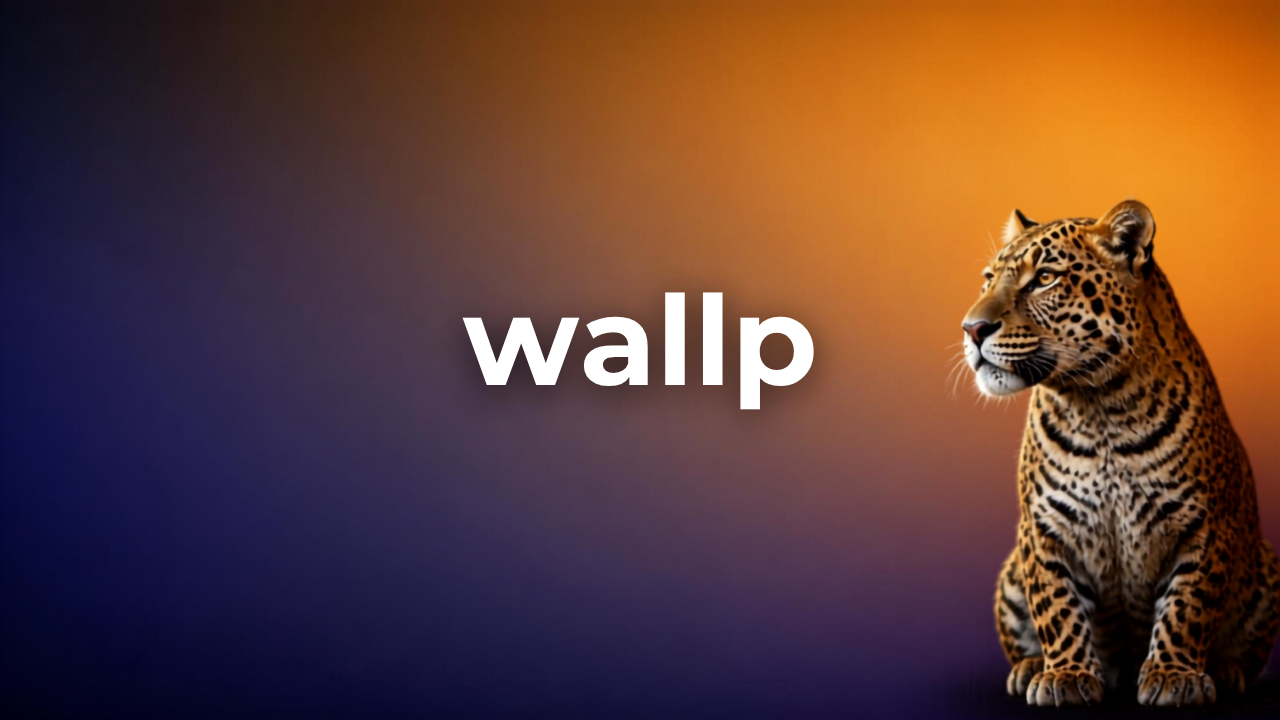
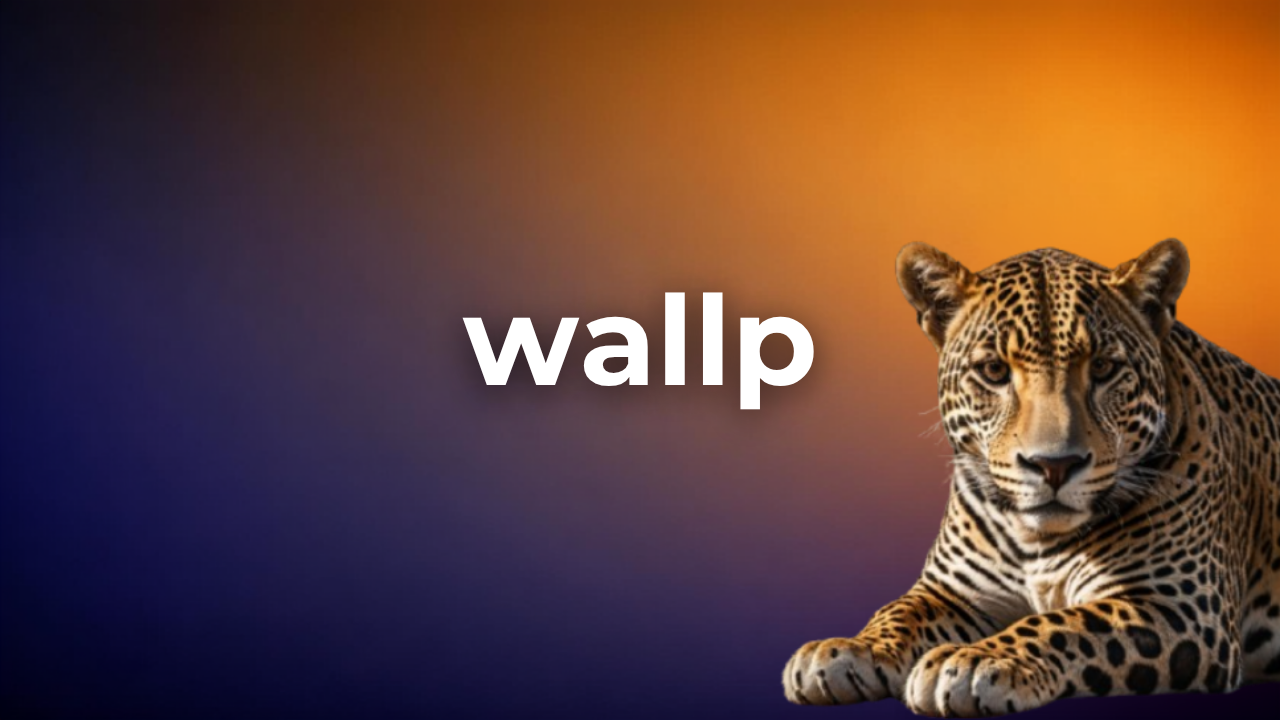
wallp 1.1.0: ps tópicos + default capivara + fix -c
- wallp -ps sem N mostra só atual (1) em tópicos (• arquivo, tamanho, duração, loop, integro, hora, período) em vez de tabela; wallp -ps [N] mostra próximos N em tópicos
- wallp -ps mostra só dir/arquivo (Wallpaper/capivara.png) via _short_path e é combinável com -c/-r/-a (ps não exclusivo)
- fix wallp -c <nome> bloqueado por check is not None em rep/images/videos/integro (sempre true)
- default-wallp.png 1.3M -> 1004K capivara (Wallpaper de capivara.png) 1280x720
- bump 1.0.3 -> 1.1.0

Changed region(s): [[0.5938, 0.275, 1.0, 1.0]]

diff --git a/src/wallp/mode_ps.py b/src/wallp/mode_ps.py
@@ -86,6 +86,20 @@ def _entry_dur(e):
         return e.get("tempo") or entries._list_total(e)
     return e.get("tempo")
 
+def _short_path(arq):
+    """Só pasta pai + arquivo, ex: Wallpapers/celeste.mp4"""
+    try:
+        p = Path(str(arq)).expanduser()
+        if not p.name:
+            return str(arq)
+        # se tem parent com nome (não root)
+        if p.parent and p.parent.name and p.parent.name not in (".", "/"):
+            return f"{p.parent.name}/{p.name}"
+        return p.name
+    except Exception:
+        return str(arq)
+
+
 def _entry_loop_str(e):
     v = e.get("loop")
     if v is True:
@@ -98,11 +112,14 @@ def _entry_loop_str(e):
         return str(v)
 
 def _ps_mode(opts):
-    n = opts.get("ps_count") or 10
+    n = opts.get("ps_count")
+    # sem N explícito → só atual (1); compat fallback antigo 10 vira 1
+    if n is None:
+        n = 1
     try:
         n = int(n)
-    except ValueError:
-        n = 10
+    except (ValueError, TypeError):
+        n = 1
     n = max(1, min(n, 100))
 
     entries_list = entries.load_checked()
@@ -164,24 +181,21 @@ def _ps_mode(opts):
         if (cur - now).days > 370:
             break
 
-    # render
-    print(f"Próximos {len(seen)} wallpapers a partir de {now.strftime('%Y-%m-%d %H:%M:%S')} (wallp -ps {n}):\n")
-    # header
-    hdr = f"{'#':>2}  {'tamanho':>9}  {'nome':<20}  {'duração':>8}  {'loop':>6}  {'integro':>7}  {'hora':<11}  {'arquivo'}"
-    print(hdr)
-    print("-" * len(hdr))
-
+    # render — sem N mostra só o atual
+    if len(seen) == 1:
+        print(f"Wallpaper atual — {now.strftime('%Y-%m-%d %H:%M:%S')} (wallp -ps):\n")
+    else:
+        print(f"Próximos {len(seen)} wallpapers a partir de {now.strftime('%Y-%m-%d %H:%M:%S')} (wallp -ps {n}):\n")
     for i, (start, end, e) in enumerate(seen, 1):
         size = _entry_size_bytes(e)
         size_s = _hum_size(size)
         # marca pesado
-        heavy = ""
-        if size is not None and size > HEAVY_LIMIT:
-            heavy = f" ⚠ >{_hum_size(HEAVY_LIMIT)}"
-        nome = (e.get("nome") or "")[:20]
+        heavy = size is not None and size > HEAVY_LIMIT
+        heavy_mark = f" ⚠ >{_hum_size(HEAVY_LIMIT)}" if heavy else ""
+        nome = (e.get("nome") or "")[:40]
         # para lista, mostra sub_nome
         if e.get("is_list") and e.get("sub_nome"):
-            nome = f"{e['nome']}/{e['sub_nome']}"[:20]
+            nome = f"{e['nome']}/{e['sub_nome']}"[:40]
         dur = _entry_dur(e)
         real = end - start
         # se dur é None (default sem tempo ou vídeo loop infinito), mostra duração real até próxima troca
@@ -199,21 +213,21 @@ def _ps_mode(opts):
             hora_s = f"{start.strftime('%H:%M')}"
         # duração real até próxima troca (para default sem tempo, já é dur)
         real_s = _hum_tempo(real)
-        # arquivo
+        # arquivo — só pasta pai + nome (curto)
         arq = e.get("arquivo") or e.get("local") or ""
-        # encurta path
-        try:
-            arq_disp = str(Path(arq).expanduser())
-            if len(arq_disp) > 50:
-                arq_disp = "…" + arq_disp[-49:]
-        except Exception:
-            arq_disp = str(arq)
+        arq_disp = _short_path(arq)
 
-        # linha principal
-        print(f"{i:>2}  {size_s:>9}{heavy:<10}  {nome:<20}  {dur_s:>8}  {loop_s:>6}  {integro_s:>7}  {hora_s:<11}  {arq_disp}")
-        # segunda linha: horário real + arquivo completo se pesado
-        # mostra intervalo real
-        print(f"    {start.strftime('%m-%d %H:%M')}→{end.strftime('%H:%M')} ({real_s})  {arq}" + (heavy and f"  ⚠ pesado (> {_hum_size(HEAVY_LIMIT)}) — considere comprimir" or ""))
+        # tópicos (em vez de tabela)
+        print(f"{i}. {nome}")
+        print(f"   • arquivo: {arq_disp}")
+        print(f"   • tamanho: {size_s}{heavy_mark}" + (f"  ⚠ pesado (> {_hum_size(HEAVY_LIMIT)}) — considere comprimir" if heavy else ""))
+        print(f"   • duração: {dur_s}")
+        print(f"   • loop: {loop_s}")
+        print(f"   • integro: {integro_s}")
+        print(f"   • hora: {hora_s}")
+        print(f"   • período: {start.strftime('%m-%d %H:%M')} → {end.strftime('%H:%M')} ({real_s})")
+        if i != len(seen):
+            print()
 
     print()
     # rodapé com dicas

diff --git a/src/wallp/cli.py b/src/wallp/cli.py
@@ -44,12 +44,12 @@ def parse():
         elif a in ("-ps", "--ps"):
             modes.add("-ps")
             opts["ps"] = True
-            # -ps [N] opcional, padrão 10
+            # -ps [N] opcional, sem N = só atual (1)
             if i + 1 < len(args) and args[i + 1].isdigit():
                 opts["ps_count"] = int(args[i + 1])
                 i += 1
             else:
-                opts["ps_count"] = 10
+                opts["ps_count"] = 1
         elif a in ("--profile", "--check"):
             modes.add("--profile")
             opts["profile"] = True
@@ -124,16 +124,25 @@ def parse():
         opts["random"] = True
         modes.add("-r")
 
+    # ps pode ser combinado com -c/-r/-a (e -n); demais combos continuam exclusivos
     if len(modes) > 1:
-        print("Erro: use apenas um comando por vez (-c, -n, -r, -a, -x, -d, -al, -ps, --profile ou --init)")
-        sys.exit(1)
+        if "-ps" in modes:
+            other = modes - {"-ps"}
+            if len(other) == 1 and other.issubset({"-c", "-n", "-r", "-a"}):
+                pass
+            else:
+                print("Erro: use apenas um comando por vez (-c, -n, -r, -a, -x, -d, -al, -ps, --profile ou --init) — ps só pode ser combinado com -c, -r ou -a")
+                sys.exit(1)
+        else:
+            print("Erro: use apenas um comando por vez (-c, -n, -r, -a, -x, -d, -al, -ps, --profile ou --init)")
+            sys.exit(1)
 
     if opts["next"] and opts["target"] is not None:
         print("Erro: -n não aceita caminho/nome (use -c para escolher)")
         sys.exit(1)
 
-    if opts["ps"] and opts["target"] is not None:
-        print("Erro: -ps não aceita caminho/nome (use -ps [N] apenas)")
+    if opts["ps"] and opts["target"] is not None and not (opts["change"] or opts["random"] or opts["auto"] or opts["next"]):
+        print("Erro: -ps não aceita caminho/nome (use -ps [N] apenas) — com -c/-r/-a use o alvo desses comandos")
         sys.exit(1)
 
     if opts["profile"] and opts["target"] is not None:
@@ -160,7 +169,7 @@ def help():
     print("wallp — wallpaper animado/imagem no KDE Plasma")
     print()
     print("Uso:")
-    print("  wallp -ps [N]             Próximos N wallpapers da agenda (padrão 10) — mostra tamanho, nome, duração, loop, integro")
+    print("  wallp -ps [N]             Mostra wallpaper atual (sem N) ou próximos N da agenda — tamanho, nome, duração, loop, integro (combinável com -c/-r/-a)")
     print("  wallp --profile           Perfil: varre yml e avisa vídeos >500MB, arquivos faltando, yt sem cache")
     print("  wallp --check             Alias para --profile (compat install.sh --check)")
     print("  wallp -al [regex]         Lista wallpapers do yml (filtra por regex no nome/local)")
@@ -207,7 +216,9 @@ def help():
     print("                              sozinho: mostra as últimas N linhas (padrão 50)")
     print("                              junto de -a/-r/-c/-n/-x: roda o comando e segue")
     print("                              o log (como tail -f, mostrando N linhas)")
-    print("  wallp -ps 5               Próximos 5 da agenda (com tamanho/duração/loop/integro)")
+    print("  wallp -ps                 Wallpaper atual (tamanho/duração/loop/integro, arquivo = dir/arquivo)")
+    print("  wallp -ps 5               Próximos 5 da agenda")
+    print("  wallp -ps -c <nome>       Troca e mostra o atual (ps combinável com -c/-r/-a)")
     print("  wallp --profile           Avisa pesados >500MB e faltando")
     print("  wallp -h                  Mostra esta ajuda")
     print("  wallp --init              Cria um wallp.yml de exemplo")

diff --git a/src/wallp/mode_profile.py b/src/wallp/mode_profile.py
@@ -19,6 +19,17 @@ def _hum_size(n):
         return f"{n/1024/1024:.1f} MB"
     return f"{n/1024/1024/1024:.2f} GB"
 
+def _short_path(p):
+    try:
+        pp = Path(str(p)).expanduser()
+        if not pp.name:
+            return str(p)
+        if pp.parent and pp.parent.name and pp.parent.name not in (".", "/"):
+            return f"{pp.parent.name}/{pp.name}"
+        return pp.name
+    except Exception:
+        return str(p)
+
 def _profile_mode(opts):
     entries_list = entries.load_checked()
     if entries_list is None:
@@ -133,24 +144,24 @@ def _profile_mode(opts):
             except OSError as ex:
                 missing.append((e, target))
 
-    # report
+    # report — mostra só pasta pai + arquivo (curto)
     if heavy:
         print(f"⚠  PESADOS >{_hum_size(HEAVY_LIMIT)} ({len(heavy)}):")
         for e, sz in heavy:
-            print(f"  - {e['nome']:<20} {_hum_size(sz):>9}  {e.get('local')}")
+            print(f"  - {e['nome']:<20} {_hum_size(sz):>9}  {_short_path(e.get('local'))}")
             print(f"    -> {_hum_size(sz)} — considere comprimir: ffmpeg -i input.mp4 -vf scale=-2:1080 -c:v libx264 -crf 23 -c:a aac -b:a 128k output.mp4")
         print()
 
     if missing:
         print(f"❌ FALTANDO ({len(missing)}):")
         for e, p in missing:
-            print(f"  - {e.get('nome','?'):<20}  {p}  (local: {e.get('local')})")
+            print(f"  - {e.get('nome','?'):<20}  {_short_path(p)}  (local: {_short_path(e.get('local'))})")
         print()
 
     if zero_dir:
         print(f"⚠  DIRETÓRIO VAZIO ({len(zero_dir)}):")
         for e, p in zero_dir:
-            print(f"  - {e['nome']:<20}  {p}")
+            print(f"  - {e['nome']:<20}  {_short_path(p)}")
         print()
 
     if not heavy and not missing and not zero_dir:

diff --git a/src/wallp/__init__.py b/src/wallp/__init__.py
@@ -41,13 +41,19 @@ def main():
         _profile_mode(opts)
         return
 
-    if opts.get("ps"):
+    # ps sozinho (sem outro modo principal) → mostra só atual/próximos e sai
+    # ps combinado com -c/-r/-a continua e será exibido após executar o comando
+    has_main = opts["random"] or opts["auto"] or opts["stop"] or opts["change"] or opts["next"] or opts["list"] or opts["daemon"] or opts["init"]
+    if opts.get("ps") and not has_main:
         from .mode_ps import _ps_mode
         _ps_mode(opts)
         return
 
     if opts["list"]:
         _list_mode(opts)
+        if opts.get("ps"):
+            from .mode_ps import _ps_mode
+            _ps_mode(opts)
         return
 
     if opts["random"]:
@@ -83,6 +89,9 @@ def main():
 
     if opts["log"]:
         _show_log(opts, follow=True)
+    if opts.get("ps"):
+        from .mode_ps import _ps_mode
+        _ps_mode(opts)
 
 
 def _list_mode(opts):

diff --git a/src/wallp/mode_change.py b/src/wallp/mode_change.py
@@ -57,7 +57,7 @@ def _change_target(target, opts=None):
             if e.get("is_list"):
                 _start_list(e, opts)
                 return
-            if any(opts.get(k) is not None for k in ("tempo", "max", "qtd", "loop", "rep", "images", "videos", "integro", "som")):
+            if (opts.get("tempo") is not None or opts.get("max") is not None or opts.get("qtd") is not None or opts.get("loop") is not None or opts.get("rep") or opts.get("images") or opts.get("videos") or opts.get("integro") or opts.get("som") is not None):
                 log.err(f"'{target}' não é uma lista; essas opções só valem com -r ou -c <lista>")
                 sys.exit(1)
             plugin, path = apply.apply(_yt_path(e), loop=bool(e.get("repetir") or e.get("loop")), som=e.get("som"), integro=e.get("integro"))
